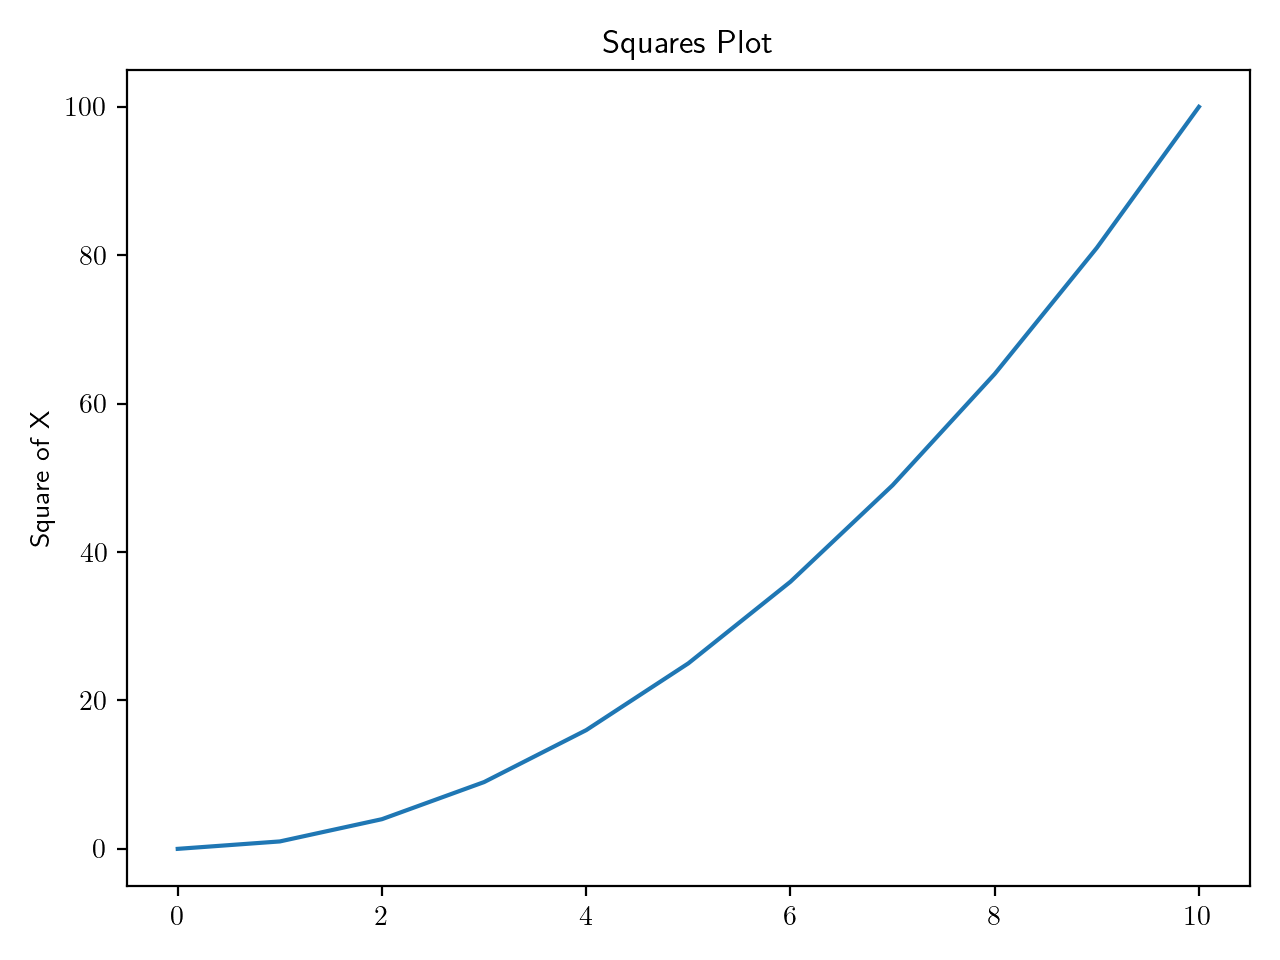
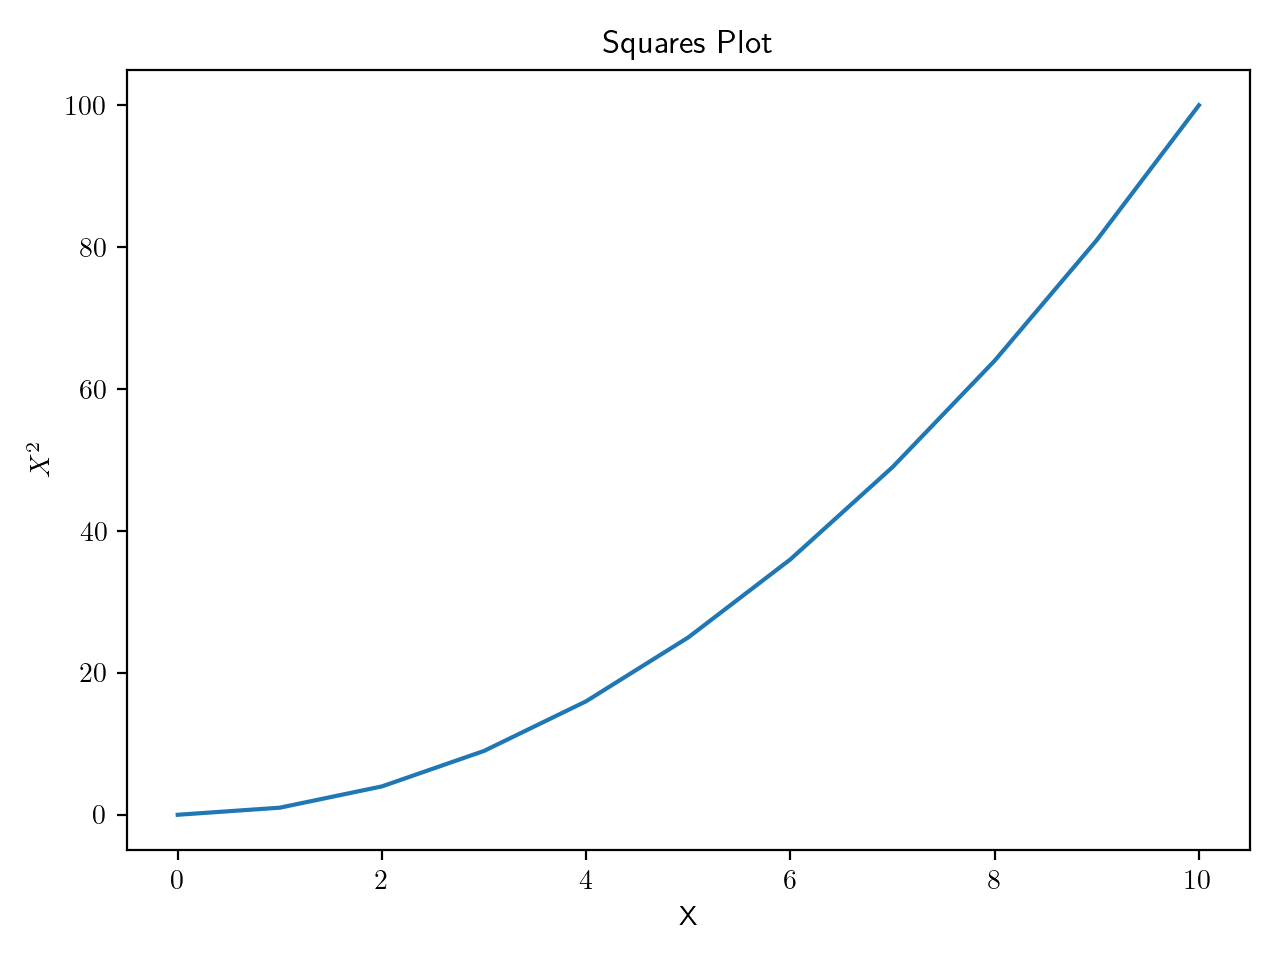
Add notebook for pyplot

diff --git a/docs/src/ch02-02-matplotlib-state.md b/docs/src/ch02-02-matplotlib-state.md
@@ -60,14 +60,15 @@ show`.
 
 ## Adding some Details
 
-While pyplot can infer a lot of the details for us, we often want to 
-handle those things for ourselves.
+While pyplot can infer a lot of the details for us, we will need to
+handle axis labels and titles ourselves.
 
 
 ```python
 plt.plot(squares)
-plt.ylabel('Square of X')
 plt.title('Squares Plot')
+plt.ylabel(r'$X^{2}$')
+plt.xlabel('X')
 plt.show()
 ```
 
@@ -90,7 +91,7 @@ figcaption {
   <figure>
     <img src="img/ch02-visualization/squares_plot.png" width="300"/>
     <figcaption>
-      Fig.2 - Adding a y-axis label and a title to our figure.
+      Fig.2 - Adding axis labels and a title to our figure.
     </figcaption>
   </figure>
 </html>
